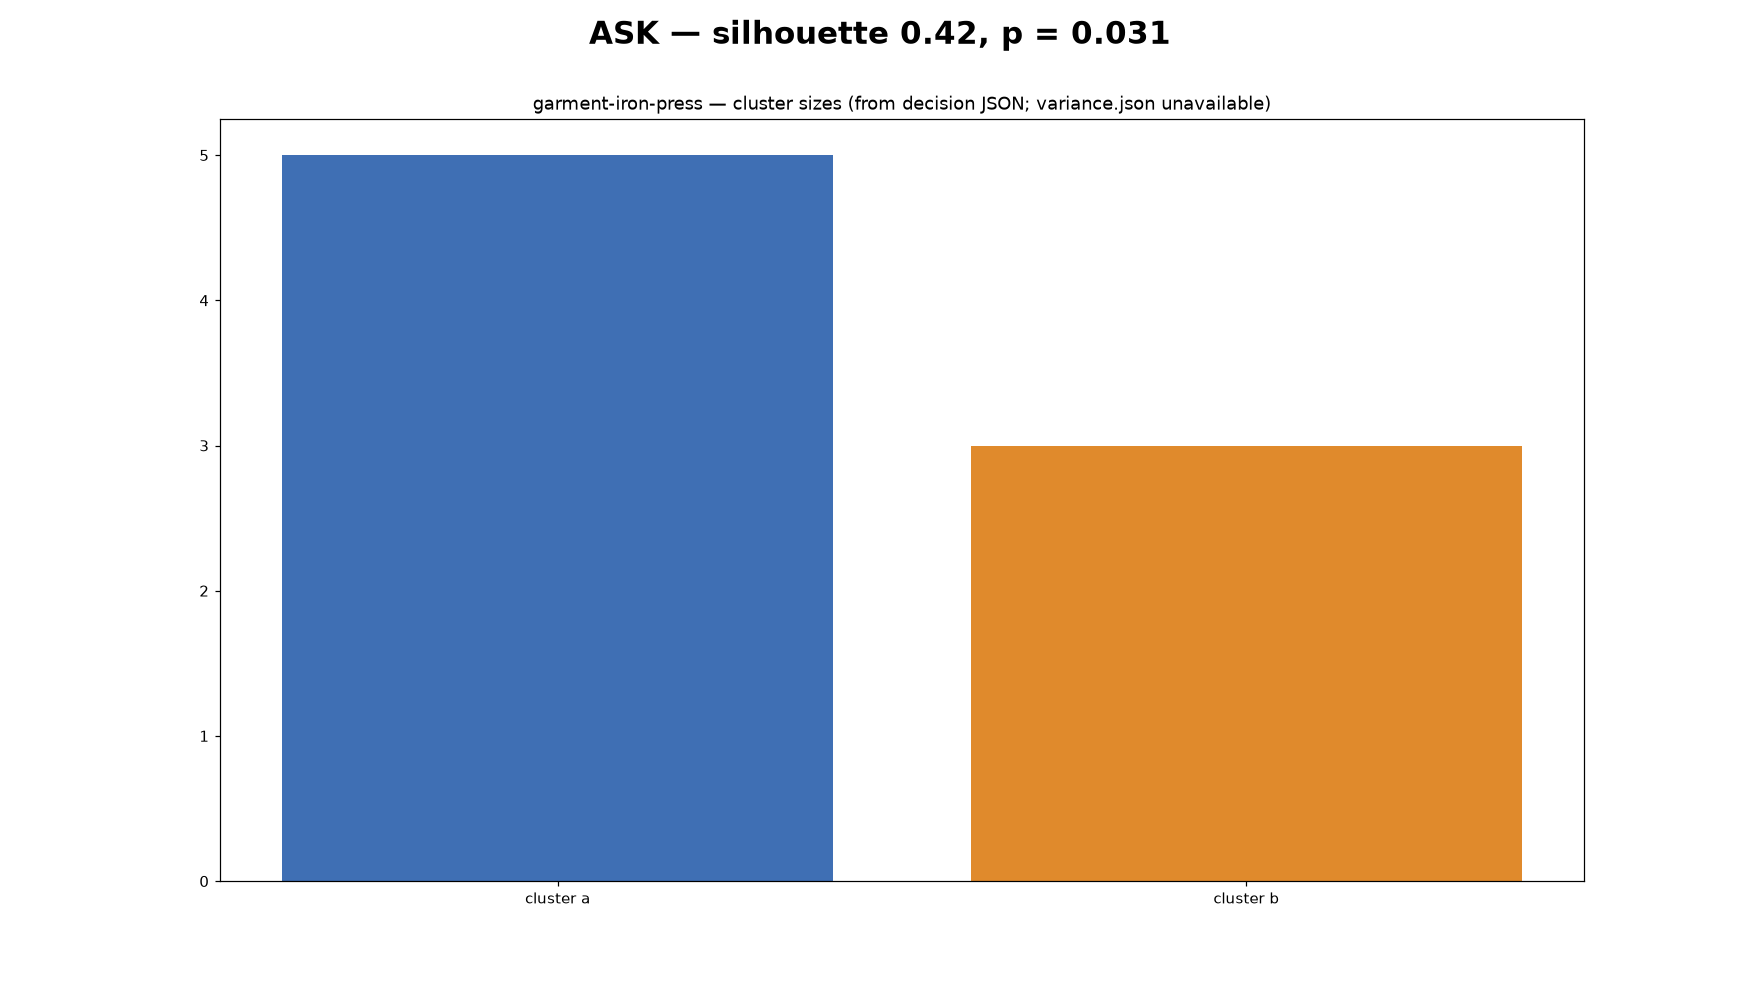
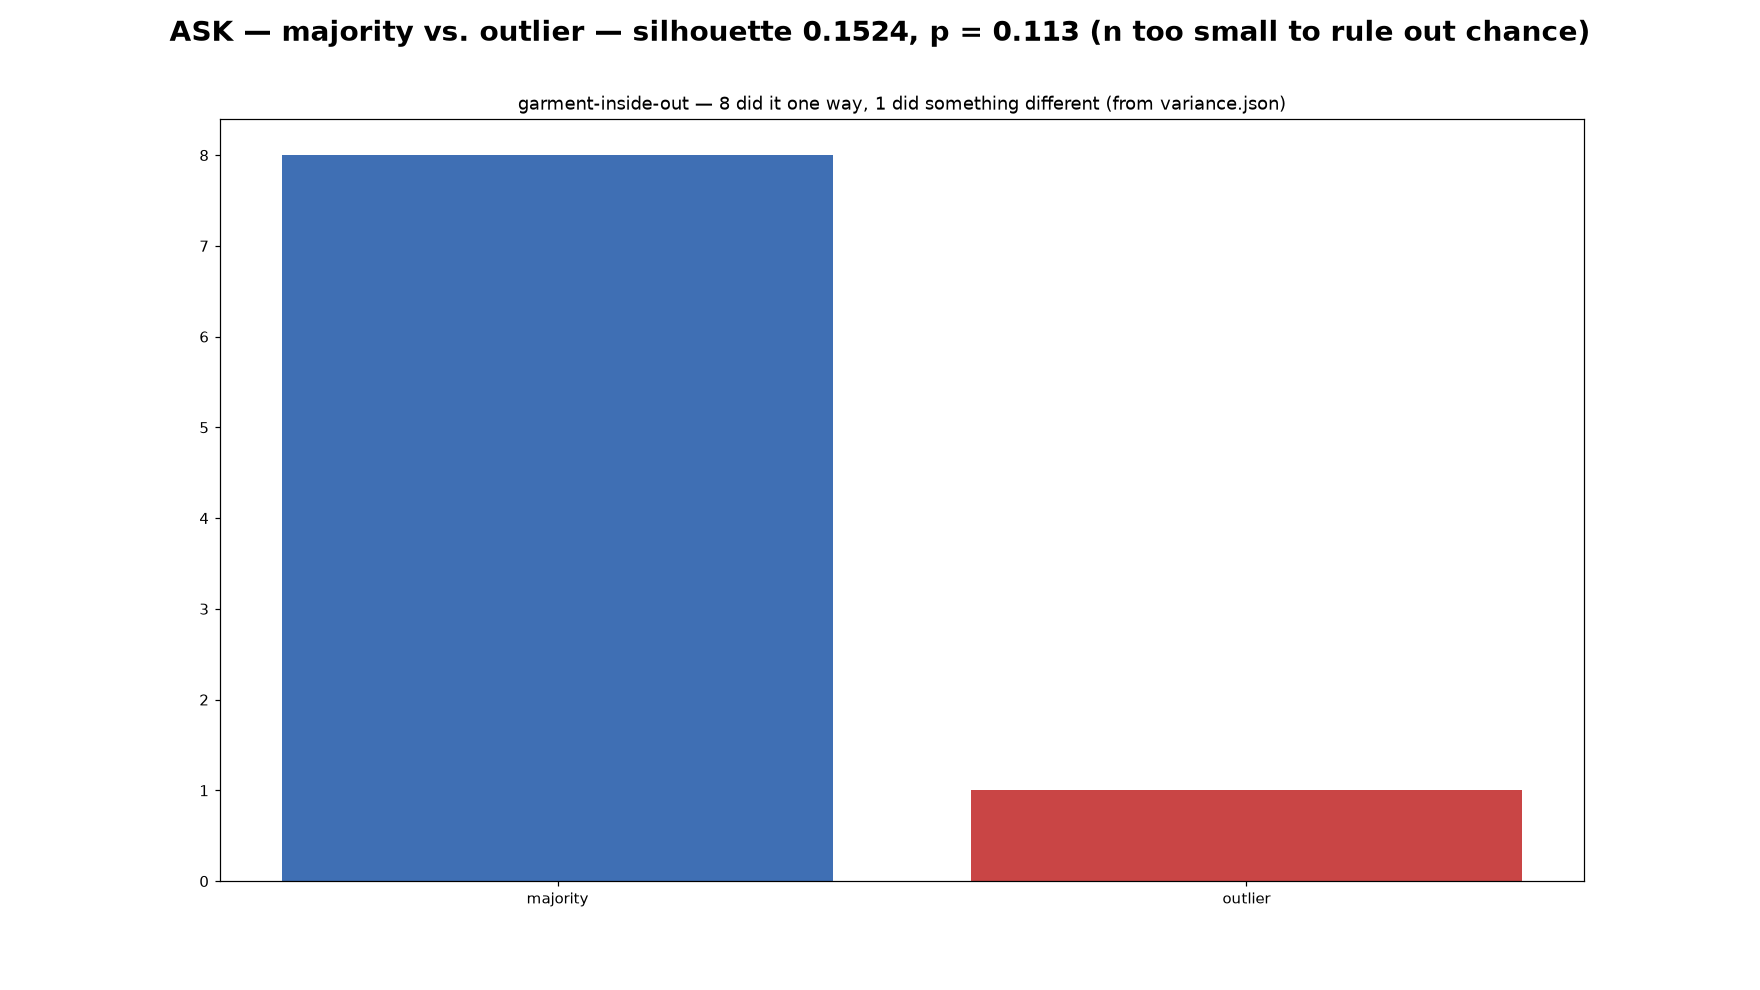
feat: ask template reframed majority-vs-outlier with p disclosure

Changed region(s): [[0.5312, 0.4242, 0.875, 0.9091], [0.0938, 0.0, 0.9062, 0.0606], [0.2812, 0.0909, 0.7188, 0.1212]]

diff --git a/voice/evidence.py b/voice/evidence.py
@@ -82,30 +82,37 @@ def render_ask(fig, decision):
     slots = decision.get("utterance_slots", {})
     task_id = decision.get("matched_task_id") or slots.get("task", "?")
 
+    # Amended framing (orchestrator, in-session): A's real data never produces a
+    # balanced two-method split on a deconfounded task -- every clean split is
+    # majority-vs-outlier (e.g. 8-1). The panel shows majority vs outlier, not
+    # "cluster a / cluster b", and always surfaces p even when p > 0.05 -- the
+    # non-significance at this n is the honest point, not a flaw to hide.
     entry = _variance_entry_for(decision.get("matched_task_id"))
     labels = entry.get("labels") if entry else None
+
+    maj_n = evidence.get("cluster_maj_n", slots.get("cluster_maj_n"))
+    min_n = evidence.get("cluster_min_n", slots.get("cluster_min_n"))
+    source = "decision JSON"
 
     if labels:
         counts = {}
         for lab in labels:
             counts[lab] = counts.get(lab, 0) + 1
-        keys = sorted(counts)
-        ax.bar([f"cluster {k}" for k in keys], [counts[k] for k in keys],
-               color=["#3f6fb4", "#e08a2c", "#8a5fd6"][:len(keys)])
-        ax.set_title(f"{task_id} — {len(labels)} clips, {len(keys)} methods (from variance.json)")
+        sizes = sorted(counts.values(), reverse=True)
+        maj_n, min_n = sizes[0], sum(sizes[1:])
+        source = "variance.json"
+
+    if maj_n is not None and min_n is not None:
+        ax.bar(["majority", "outlier"], [maj_n, min_n], color=["#3f6fb4", "#c94545"])
+        ax.set_title(f"{task_id} — {maj_n} did it one way, {min_n} did something different (from {source})")
     else:
-        a = evidence.get("cluster_a_n", slots.get("cluster_a_n"))
-        b = evidence.get("cluster_b_n", slots.get("cluster_b_n"))
-        if a is not None and b is not None:
-            ax.bar(["cluster a", "cluster b"], [a, b], color=["#3f6fb4", "#e08a2c"])
-            ax.set_title(f"{task_id} — cluster sizes (from decision JSON; variance.json unavailable)")
-        else:
-            ax.axis("off")
-            ax.text(0.5, 0.5, "no cluster data available", ha="center", va="center")
+        ax.axis("off")
+        ax.text(0.5, 0.5, "no cluster data available", ha="center", va="center")
 
     silhouette = evidence.get("silhouette", evidence.get("silhouette_k2", slots.get("silhouette")))
     perm_p = evidence.get("perm_p", slots.get("perm_p"))
-    fig.suptitle(f"ASK — silhouette {silhouette}, p = {perm_p}", fontsize=20, fontweight="bold")
+    fig.suptitle(f"ASK — majority vs. outlier — silhouette {silhouette}, p = {perm_p} (n too small to rule out chance)",
+                 fontsize=18, fontweight="bold")
 
 
 def render_act(fig, decision):

diff --git a/voice/speak.py b/voice/speak.py
@@ -18,8 +18,16 @@ outer schema, but the contract Agent D and Agent B need to agree on in
 integration — see voice/fixtures/*.json for worked examples):
     abstain:                query, hours, n_tasks, near1, near2
     abstain (post-feedback): n_live_demos, n_live_demonstrators, live_stat_line
-    ask:                    n_clips, task, k, silhouette, perm_p, cluster_a_n, cluster_b_n
+    ask:                    n_clips, task, cluster_maj_n, cluster_min_n, silhouette, perm_p
     act:                    (none — act-silent speaks nothing)
+
+Orchestrator amendment (2026-08-30, user-approved): Agent A's real data shows
+no deconfounded task splits into two balanced methods -- every clean split
+is majority-vs-outlier (e.g. 8-1, p~=0.11, not significant). BEAT 2 is now an
+honest majority-vs-outlier ask instead of a "two balanced methods" ask; the
+p-value disclosure is deliberate and must not be dropped even though it is
+often > 0.05 (that is the honest point -- with this few clips we cannot rule
+out chance). This replaced the earlier k/cluster_a_n/cluster_b_n ask slots.
 """
 import argparse
 import json
@@ -52,9 +60,10 @@ TEMPLATES = {
         "measured: {live_stat_line}."
     ),
     "ask": (
-        "I have {n_clips} demonstrations of {task}. They split into {k} distinct methods "
-        "— silhouette {silhouette}, p equals {perm_p}. {cluster_a_n} workers did it one "
-        "way, {cluster_b_n} another. Which do you want?"
+        "I have {n_clips} demonstrations of {task}. {cluster_maj_n} do it one way. "
+        "{cluster_min_n} does something different - silhouette {silhouette}, though "
+        "with {n_clips} clips I cannot rule out chance: p equals {perm_p}. Should I "
+        "follow the majority, or does the outlier matter?"
     ),
     "act": "",  # act-silent: speaks nothing, per the frozen contract
 }
